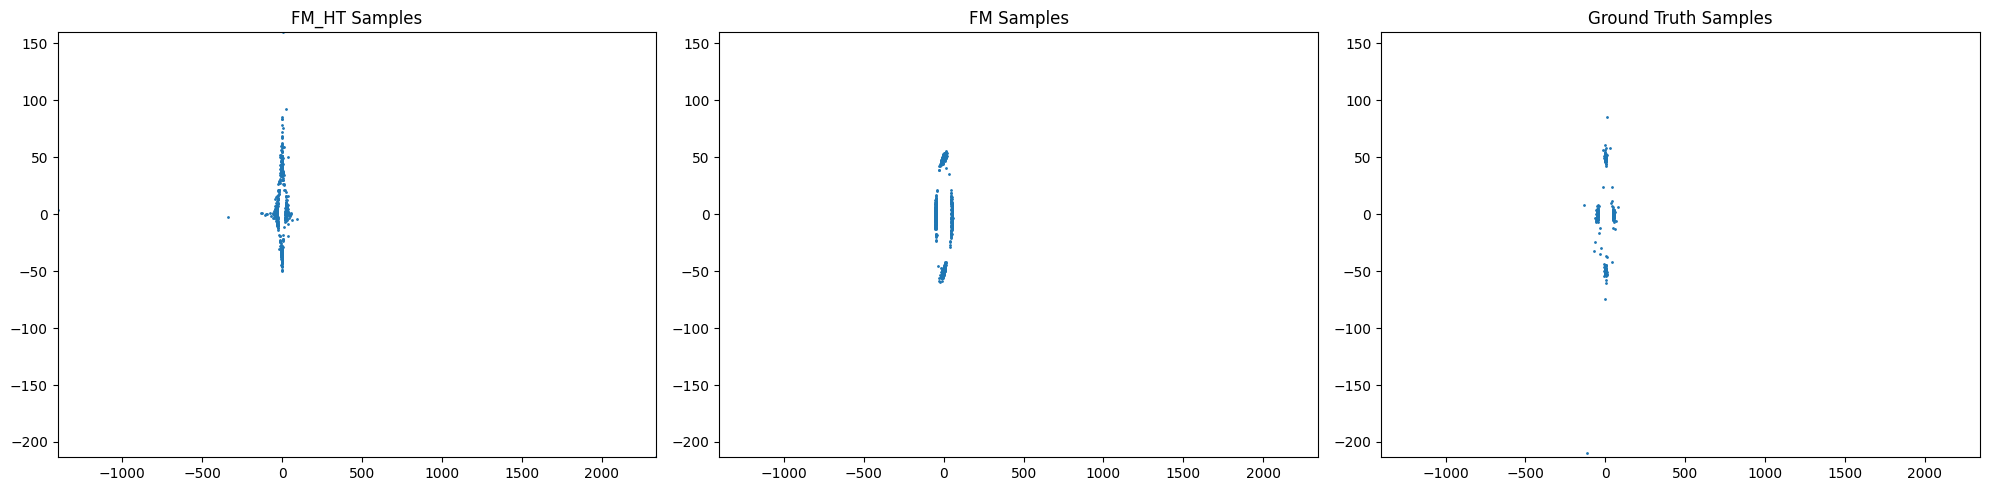
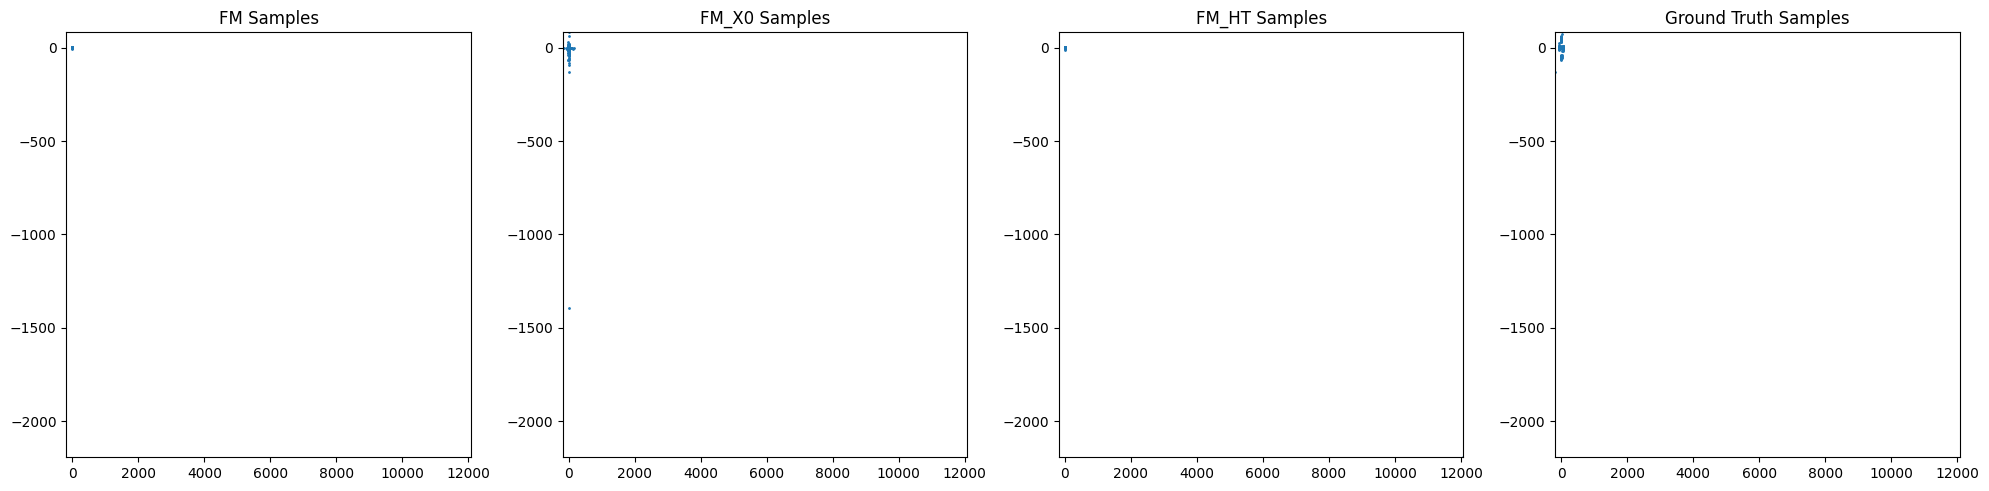
kaggle

diff --git a/main.py b/main.py
@@ -13,6 +13,7 @@ import matplotlib.pyplot as plt
 import flow_matching
 from models.Flow_X0HT import FlowMatchingX0HT
 from TTF.basic import basicTTF
+from net.net2D import HeavyT_MLP
 
 #from models.utils.extreme_transforms import TTF
 
@@ -37,7 +38,7 @@ def main():
     # Setting the parameters of the model
     dim = 2
     lr = 1e-4
-    epochs = 150
+    epochs = 50
 
 
     net_fm = FMnet()
@@ -54,15 +55,24 @@ def main():
                                  lr=lr,
                                  weight_decay=1e-3)
 
-    model_ht_fm = FlowMatchingX0HT(net, ttf, dim, device)
-    model_ht_fm.train(optimizer, dataloader1, dataloader0, epochs)
-    gen_samples_FMHT, hist = model_ht_fm.sample_from(X0.to(device))
+    model_FMX0_HT = FlowMatchingX0HT(net, ttf, dim, device)
+    model_FMX0_HT.train(optimizer, dataloader1, dataloader0, epochs)
+    gen_samples_X0, hist = model_FMX0_HT.sample_from(X0.to(device))
+
+    net_HT = HeavyT_MLP().to(device)
+    model_FM_HT = GaussFlowMatching_OT(net_HT, device=device)
+    optimizer_fm = torch.optim.Adam(net_fm.parameters(), lr)
+
+    model_FM.train(optimizer_fm, dataloader1 , dataloader0 , n_epochs=epochs)
+    gen_FM_samples, hist_FM = model_FM.sample_from(X0.to(device))
+
+    gen_samples_FMHT, hist_FMHT = model_FM_HT.sample_from(X0.to(device))
 
 
     # Plots
     plot_model_samples(
-        [gen_samples_FMHT, gen_FM_samples],
-        ['FM_HT', 'FM'],
+        [gen_FM_samples, gen_samples_X0, gen_samples_FMHT],
+        ['FM', 'FM_X0', 'FM_HT'],
         X1)
 
 

diff --git a/net/net2D.py b/net/net2D.py
@@ -23,10 +23,6 @@ class MLP2D(nn.Module):
         x = torch.cat([self.linpos(x), self.pe(sigma)], dim=1)
         return self.mlp(x)
 
-
-
-
-
 class PE(nn.Module):
     """
     Positional encoding.
